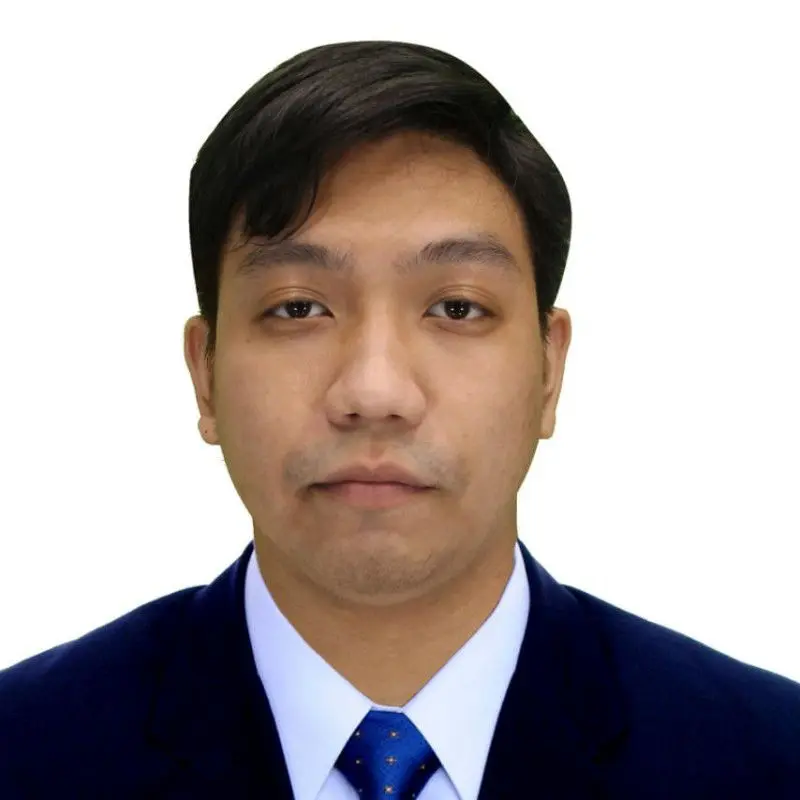
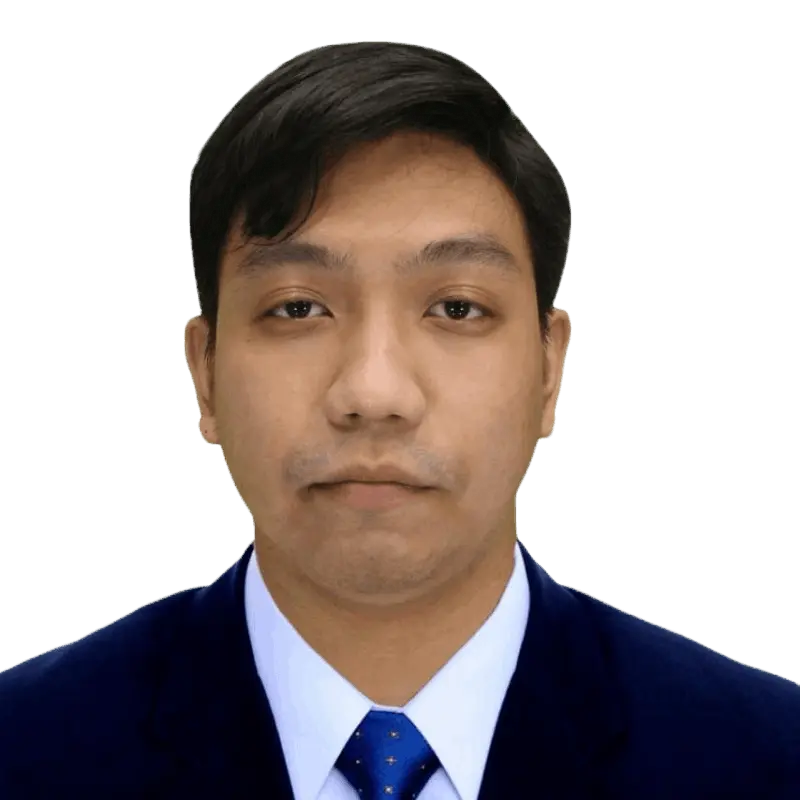
Add files via upload

diff --git a/index.html b/index.html
@@ -144,11 +144,11 @@
     <div class="container">
         <div class="row justify-content-center">
             <div class="col-12 col-md-8">
-                <div class="carousel slide carousel-fade" id="uglTYmH7Df" data-ride="carousel" data-bs-ride="carousel" data-interval="6000" data-bs-interval="6000">
+                <div class="carousel slide carousel-fade" id="uglVJHVusC" data-ride="carousel" data-bs-ride="carousel" data-interval="6000" data-bs-interval="6000">
                     <div class="mbr-overlay" style="opacity: 0.5; background-color: rgb(255, 255, 255);">
                     </div>
                     <ol class="carousel-indicators">
-                        <li data-slide-to="0" data-bs-slide-to="0" class="active" data-target="#uglTYmH7Df" data-bs-target="#uglTYmH7Df"></li><li data-slide-to="1" data-bs-slide-to="1" class="" data-target="#uglTYmH7Df" data-bs-target="#uglTYmH7Df"></li><li data-slide-to="2" data-bs-slide-to="2" class="" data-target="#uglTYmH7Df" data-bs-target="#uglTYmH7Df"></li><li data-slide-to="3" data-bs-slide-to="3" class="" data-target="#uglTYmH7Df" data-bs-target="#uglTYmH7Df"></li><li data-slide-to="4" data-bs-slide-to="4" class="" data-target="#uglTYmH7Df" data-bs-target="#uglTYmH7Df"></li><li data-slide-to="5" data-bs-slide-to="5" class="" data-target="#uglTYmH7Df" data-bs-target="#uglTYmH7Df"></li><li data-slide-to="6" data-bs-slide-to="6" class="" data-target="#uglTYmH7Df" data-bs-target="#uglTYmH7Df"></li><li data-slide-to="7" data-bs-slide-to="7" class="" data-target="#uglTYmH7Df" data-bs-target="#uglTYmH7Df"></li><li data-slide-to="8" data-bs-slide-to="8" class="" data-target="#uglTYmH7Df" data-bs-target="#uglTYmH7Df"></li><li data-slide-to="9" data-bs-slide-to="9" class="" data-target="#uglTYmH7Df" data-bs-target="#uglTYmH7Df"></li>
+                        <li data-slide-to="0" data-bs-slide-to="0" class="active" data-target="#uglVJHVusC" data-bs-target="#uglVJHVusC"></li><li data-slide-to="1" data-bs-slide-to="1" class="" data-target="#uglVJHVusC" data-bs-target="#uglVJHVusC"></li><li data-slide-to="2" data-bs-slide-to="2" class="" data-target="#uglVJHVusC" data-bs-target="#uglVJHVusC"></li><li data-slide-to="3" data-bs-slide-to="3" class="" data-target="#uglVJHVusC" data-bs-target="#uglVJHVusC"></li><li data-slide-to="4" data-bs-slide-to="4" class="" data-target="#uglVJHVusC" data-bs-target="#uglVJHVusC"></li><li data-slide-to="5" data-bs-slide-to="5" class="" data-target="#uglVJHVusC" data-bs-target="#uglVJHVusC"></li><li data-slide-to="6" data-bs-slide-to="6" class="" data-target="#uglVJHVusC" data-bs-target="#uglVJHVusC"></li><li data-slide-to="7" data-bs-slide-to="7" class="" data-target="#uglVJHVusC" data-bs-target="#uglVJHVusC"></li><li data-slide-to="8" data-bs-slide-to="8" class="" data-target="#uglVJHVusC" data-bs-target="#uglVJHVusC"></li><li data-slide-to="9" data-bs-slide-to="9" class="" data-target="#uglVJHVusC" data-bs-target="#uglVJHVusC"></li>
                         
                         
                     </ol>
@@ -207,11 +207,11 @@
                             </div>
                         </div>
                     </div>
-                    <a class="carousel-control carousel-control-prev" role="button" data-slide="prev" data-bs-slide="prev" href="#uglTYmH7Df">
+                    <a class="carousel-control carousel-control-prev" role="button" data-slide="prev" data-bs-slide="prev" href="#uglVJHVusC">
                         <span class="mobi-mbri mobi-mbri-arrow-prev" aria-hidden="true"></span>
                         <span class="sr-only visually-hidden">Previous</span>
                     </a>
-                    <a class="carousel-control carousel-control-next" role="button" data-slide="next" data-bs-slide="next" href="#uglTYmH7Df">
+                    <a class="carousel-control carousel-control-next" role="button" data-slide="next" data-bs-slide="next" href="#uglVJHVusC">
                         <span class="mobi-mbri mobi-mbri-arrow-next" aria-hidden="true"></span>
                         <span class="sr-only visually-hidden">Next</span>
                     </a>
@@ -388,7 +388,7 @@
                 <div class="card-wrap">
                     <div class="image-wrap">
                       <div class="image-wrap">
-                        <img src="assets/images/1703056145697-750x750.webp" alt="">
+                        <img src="assets/images/1703056145697-800x800.webp" alt="">
                     </div> </div>
                     <div class="content-wrap">
                         <h5 class="mbr-section-title card-title mbr-fonts-style align-center m-0 display-7">
